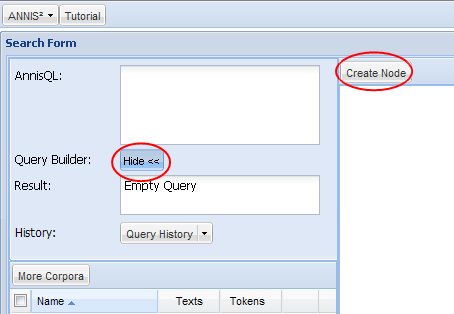
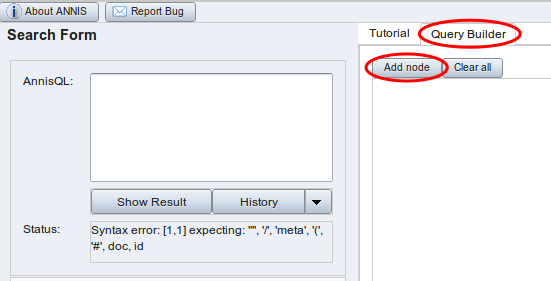
updated screenshots for tutorial
also updated some stuff that changed in the GUI

diff --git a/annis-gui/src/main/webapp/tutorial/interface.html b/annis-gui/src/main/webapp/tutorial/interface.html
@@ -1,42 +1,43 @@
 <!DOCTYPE HTML PUBLIC "-//W3C//DTD HTML 4.01 Transitional//EN" "http://www.w3.org/TR/html4/loose.dtd">
 <html>
 <head>
-<title>The ANNIS2 Interface - Search and Visualization in Multilevel Linguistic Corpora</title>
+<title>The ANNIS Interface - Search and Visualization in Multilevel Linguistic Corpora</title>
 <link href="ANNIS_tutorial.css" rel="stylesheet" type="text/css">
 </head>
 
 <body>
 
 <div id="tutorialcontent">
-<h2>Using the ANNIS2 Interface</h2>
-The ANNIS2 interface is comprised of several windows, the most important of which are the search form and the results window.
+<h2>Using the ANNIS Interface</h2>
+The ANNIS interface is comprised of several windows, the most important of which are the search form and the results window.
 <h3>The Search Form</h3>
-<img src="searchform.png" alt="ANNIS2 search form">
+<img src="searchform.png" alt="ANNIS search form">
 <p>The Search Form on the left of the interface window is available immediately after login. In the middle, the list of currently available corpora is shown.
-Using the checkboxes on the left of each corpus, it is possible to select which corpora should be searched in (hold down 'shift' to select multiple corpora simultaneously).
-If you cannot see a corpus that should be available to you, or else if the corpora list is too cluttered, you may click on "more corpora" to open the corpora window.
-You may then drag and drop the desired or unwanted corpora between the list and the window.</p>
-<img src="more_corpora.jpg" alt="ANNIS2 corpora window">
+By clicking on the line with the corpus name, it is possible to select which corpora should be searched in (hold down 'ctrl' to select multiple corpora simultaneously).
+</p>
 <p>
 The "AnnisQL" field at the top of the form is used for inputting queries manually (see the tutorials on the ANNIS Query Language).
-As soon as a one or several corpora are selected and a query is entered or modified, the query will be validated automatically and possible errors in the query syntax will be commented on in the "Result" box below. When modifying a query, a delay of two seconds ia
+As soon as a one or several corpora are selected and a query is entered or modified, the query will be validated automatically and possible errors in the query syntax will be commented on in the "Status" box below. When modifying a query, a delay of two seconds ia
 activated before the query is re-sent to the server for validation.
 </p>
 <p>
-Once a valid query has been entered, pressing the "Show Result" button will retrieve the number of matching positions in the selected corpora in the Result box and open the Result Window to display the first set of matches.
-The context surrounding the matching expressions in the result list ist determined by the "context left" and "context right" options at the bottom of the search form, and can be set to up to 10 tokens on each side,
+Once a valid query has been entered, pressing the "Show Result" button will retrieve the number of matching positions in the selected corpora in the Result box and open the Result Window to display the first set of matches.</p>
+<img src="searchoptions.png" alt="ANNIS search options">
+<p>
+In order to get more control over the search you can click on "Search Options" to unfold more detailed search options.
+The context surrounding the matching expressions in the result list ist determined by the "context left" and "context right" options and can be set to up to 10 tokens on each side,
 though some corpora allow longer spans, such as entire texts, to be viewed using special discourse visualizations.</p>
 <h3>The Result Window</h3>
-<img src="search_bar.jpg" alt="ANNIS2 result window toolbar" width="433" height="35">
+<img src="search_bar.png" alt="ANNIS result window toolbar" >
 <p>The result window shows search results in pages of 10 hits each by default (this can be changed in the Search Form). The toolbar at the top of the window allows you to navigate between these pages.
 The "Token Annotations" button on the toolbar allows you to toggle the token based annotations, such as lemmas and parts-of-speech, on or off for you convenience.
 The "Citation URL" button provides a hyperlink which you can e-mail or cite, allowing others to reproduce your query.</p>
-<img src="KWIC_narrow.png" alt="KWIC concordance in ANNIS2">
+<img src="KWIC_narrow.png" alt="KWIC concordance in ANNIS">
 <p>
 The result list itself initially shows a KWIC (key word in context) concordance of matching positions in the selected corpora, with the matching region marked red and the context in black on either side.
 Token annotations are displayed in gray under each token, and hovering over them with the mouse will show the annotation name and namespace. More complex annotation levels can be expanded, if available, by clicking on the plus
 icon next to the level's name, e.g. tiger and exmaralda for the annotations in the tree and grid views in the picture below (circled in red). </p>
-<img src="annotation_levels.png">
+<img src="annotation_levels.png" alt="visualization of different annotation levels">
 </div>
 
 </body>

diff --git a/annis-gui/src/main/webapp/tutorial/query_builder.html b/annis-gui/src/main/webapp/tutorial/query_builder.html
@@ -1,22 +1,22 @@
 <!DOCTYPE HTML PUBLIC "-//W3C//DTD HTML 4.01 Transitional//EN" "http://www.w3.org/TR/html4/loose.dtd">
 <html>
 <head>
-<title>The ANNIS2 Query Builder - Search and Visualization in Multilevel Linguistic Corpora</title>
+<title>The ANNIS Query Builder - Search and Visualization in Multilevel Linguistic Corpora</title>
 <link href="ANNIS_tutorial.css" rel="stylesheet" type="text/css">
 </head>
 
 <body>
 
 <div id="tutorialcontent">
-<h2>Using the ANNIS2 Query Builder</h2>
-<p>To open the graphical query builder, click on the<strong> Query Builder: Show &gt;&gt; </strong> button on the Search Form (then clicking <strong> Query Builder: hide &lt;&lt; </strong> will close the Query Builder). On the left-hand side of the toolbar at the top of the query builder canvans, you will see the <strong>Create Node </strong>button.
+<h2>Using the ANNIS Query Builder</h2>
+<p>To open the graphical query builder, click on the <strong>Query Builder</strong> tab. On the left-hand side of the toolbar at the top of the query builder canvans, you will see the <strong>Add Node</strong> button.
 Use this button to define nodes to be searched for (tokens, non-terminal nodes or annotations). Creating nodes and modifying them on the canvas will immediately update the AnnisQL field in the Search Form with your query, though updating the query on the Search Form will not create a new graph in the Query Builder. </p>
 <img src="query_builder_empty.png" alt="The Query Builder tab and the Create Node button">
 <p>In each node you create you may click on "Add" to specify an annotation value. The annotation name can be typed in or selected from a drop down list. The "Op[erator]" field in the middle allows you to choose between an exact match
 (the '=' symbol) or wildcard search using Regular Expressions (the '~' symbol). The annotation value is given on the right, and should <strong>NOT</strong> be surrounded by quotations (see the example below).
 It is also possible to specify multiple annotations applying to the same position by clicking on "Add" multiple times. Clicking on "Clear" will delete the values in the node.
-To search for word forms, simply leave the field name on the left empty and type directly on the right under "Value". A node with no data entered will match any node, that is an underspecified token or non-terminal node or annotation.</p>
-<img src="node.gif" alt="Query Builder node">
+To search for word forms, simply choose "tok" as the field name on the left. A node with no data entered will match any node, that is an underspecified token or non-terminal node or annotation.</p>
+<img src="node.png" alt="Query Builder node">
 <p>
 To specify the relationship between nodes, first click on the "Edge" button at the top left of one node, and then click the "Dock" button which becomes available on the other nodes.
 An edge will connect the nodes with an extra box from which operators may be selected (see below). For operators allowing additional labels (e.g. the dominance operator <tt>&gt;</tt> allows edge labels to be specified),

diff --git a/annis-gui/src/main/webapp/tutorial/tutorial_nav.html b/annis-gui/src/main/webapp/tutorial/tutorial_nav.html
@@ -1,7 +1,7 @@
 <!DOCTYPE HTML PUBLIC "-//W3C//DTD HTML 4.01 Transitional//EN" "http://www.w3.org/TR/html4/loose.dtd">
 <html>
 <head>
-  <title>ANNIS2 Tutorial Navigation</title>
+  <title>ANNIS Tutorial Navigation</title>
   <meta http-equiv="Content-Type"
  content="text/html; charset=iso-8859-1">
   <link href="ANNIS_tutorial.css" rel="stylesheet" type="text/css">
@@ -9,8 +9,8 @@
 <body>
 <b>Get help about:</b>
 <select onchange="parent.tutframe.location.href=this.value;">
-<optgroup label="ANNIS2 Interface">
-<option selected="selected" value="interface.html">Using the ANNIS2
+<optgroup label="ANNIS Interface">
+<option selected="selected" value="interface.html">Using the ANNIS
 interface</option>
 <option value="query_builder.html">Using
 the graphical query builder</option>

diff --git a/annis-gui/src/main/webapp/tutorial/index.html b/annis-gui/src/main/webapp/tutorial/index.html
@@ -1,7 +1,7 @@
 <!DOCTYPE HTML PUBLIC "-//W3C//DTD HTML 4.01 Frameset//EN" "http://www.w3.org/TR/html4/loose.dtd">
 <html>
 <head>
-<title>ANNIS2 Tutorial</title>
+<title>ANNIS Tutorial</title>
 <meta http-equiv="Content-Type" content="text/html; charset=iso-8859-1">
 </head>
 
